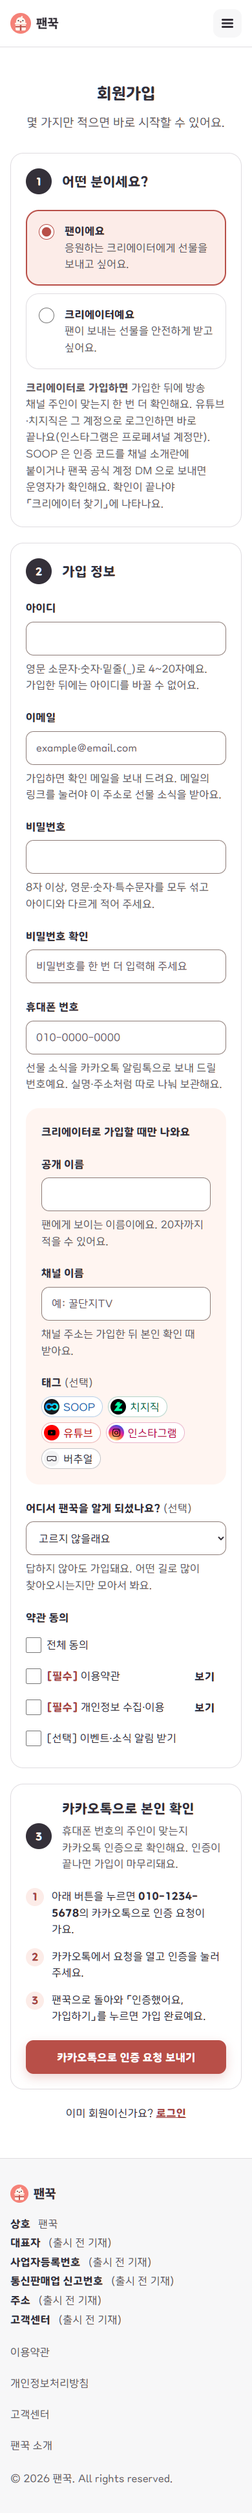
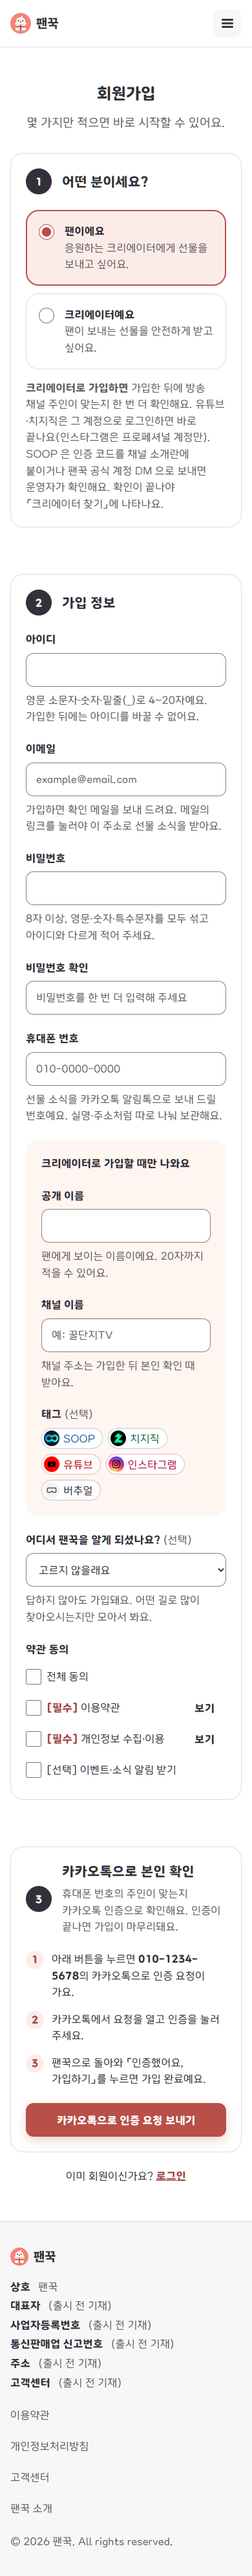
docs(fankkuk): v11 구간 사이 여백 넓힘 — 바깥 화면 큰 구간 88~144, 화면 안 구간 64(휴대폰 48, 손으로 적은 값 지움), 쌓인 판 사이 32
Claude-Session: https://claude.ai/code/session_012ZzUPkDyX6EmouyR5g4nGM

diff --git a/projects/fankkuk/docs/design/mockups/site/v11/creator-revgifts.html b/projects/fankkuk/docs/design/mockups/site/v11/creator-revgifts.html
@@ -70,13 +70,13 @@
 
         <p class="paid" role="status"><strong>결제가 끝났어요.</strong> 팬마다 상자를 따로 포장하고, 아래 팬마다 나온 받는 주소로 보내 주세요.</p>
 
-        <section class="card card--soft" aria-labelledby="priv-h" style="margin-top:24px">
+        <section class="card card--soft" aria-labelledby="priv-h">
           <img src="../v4/img/icon-address-lock.png" alt="" aria-hidden="true" width="56" height="56" style="width:56px;height:56px;object-fit:contain;margin-bottom:12px">
           <h2 class="t-card" id="priv-h">팬의 주소와 실명은 보이지 않아요</h2>
           <p style="margin-top:8px">팬이 직접 입력하고, 팬꾹만 송장을 뽑을 때 열어요.</p>
         </section>
 
-        <section aria-labelledby="b1-h" style="margin-top:48px">
+        <section aria-labelledby="b1-h">
           <h2 class="t-card" id="b1-h">10.11 16:20 보낸 역조공</h2>
           <p class="t-meta" style="margin-top:4px">팬 3명 · 받은 팬 1명 · 기다리는 중 1명 · 받지 않은 팬 1명 (받지 않은 상자 요금은 환불돼요)</p>
           <div class="card card--soft" style="margin-top:16px">
@@ -104,12 +104,12 @@
             </li></ul>
         </section>
 
-        <section class="card" aria-labelledby="find-h" style="margin-top:32px">
+        <section class="card" aria-labelledby="find-h">
           <h3 id="find-h">받는 주소 없이 보냈어요</h3>
           <p style="margin-top:8px">받는 주소 끝 6자리를 빼고 보낸 상자는 사무실에서 바로 찾지 못해요. 송장번호·택배사·보낸 사람 이름 첫 글자가 모두 맞으면 그 팬의 상자로 이어 드려요.</p>
         </section>
 
-        <section class="card" aria-labelledby="know-h" style="margin-top:24px">
+        <section class="card" aria-labelledby="know-h">
           <h2 class="t-card" id="know-h">알아 두세요</h2>
           <ul class="notes">
             <li>「받지 않았어요」는 팬이 받지 않기를 누른 경우와 7일이 지난 경우를 구분하지 않아요.</li>

diff --git a/projects/fankkuk/docs/design/mockups/site/v11/creator-requests.html b/projects/fankkuk/docs/design/mockups/site/v11/creator-requests.html
@@ -77,7 +77,7 @@
           <p class="t-body" style="margin-top:8px">승인 전까지 주소는 노출되지 않습니다. 7일 안에 정하지 않으면 자동으로 받지 않음 처리돼요.</p>
         </section>
 
-        <section aria-labelledby="wait-h" style="margin-top:40px">
+        <section aria-labelledby="wait-h">
           <h2 class="t-card" id="wait-h">승인 대기 4</h2>
           <ul class="grid cols-2">
             <li class="card card-col">
@@ -107,7 +107,7 @@
           </ul>
         </section>
 
-        <section aria-labelledby="done-h" style="margin-top:48px">
+        <section aria-labelledby="done-h">
           <h2 class="t-card" id="done-h">처리한 요청</h2>
           <ul class="grid cols-2">
             <li class="card card-col"><p><span class="tag tag--success">승인함</span></p><div><h3>소라님의 선물</h3><p class="t-meta">꽃 · 상자 1개 · FC-1A7BX</p></div><p class="t-meta">10.04 처리 · 카카오톡 서명으로 승인했어요.</p></li>

diff --git a/projects/fankkuk/docs/design/mockups/site/v11/v11.css b/projects/fankkuk/docs/design/mockups/site/v11/v11.css
@@ -592,3 +592,10 @@ fieldset.part > legend + *{clear:both}
 /* 목록 위 안내 한 줄은 구간 머리의 끝이다 — 화면 머리와 같은 48(휴대폰 32) */
 .section-hint:has(+ :is(.grid,.cards,.list)){margin-bottom:48px}
 @media(max-width:767px){.section-hint:has(+ :is(.grid,.cards,.list)){margin-bottom:32px}}
+
+/* ---------- 15. 구간 사이 여백 (2026-10-13 사용자 「섹션 간격도 조금 띄워줘, 내용이 찌부된 것 같다」) ----------
+   바깥 화면 큰 구간 위아래 88~144 · 화면 안 구간 사이 64(휴대폰 48) · 세로로 쌓인 판·카드 사이 32 */
+:root{--sec-pad:clamp(88px,10vw,144px)}
+section:not(.section) + section:not(.section){margin-top:64px}
+.stack,.block-gap{gap:32px}
+@media(max-width:767px){section:not(.section) + section:not(.section){margin-top:48px}}

diff --git a/projects/fankkuk/docs/design/mockups/site/v11/revgift-receive.html b/projects/fankkuk/docs/design/mockups/site/v11/revgift-receive.html
@@ -107,7 +107,7 @@
       </div>
 
       <p class="t-meta" style="margin-top:72px">시안 안내 · 받기를 마쳤을 때</p>
-      <section class="part part--soft" style="margin-top:12px" aria-labelledby="done-h">
+      <section class="part part--soft" aria-labelledby="done-h">
         <div class="done-head"><span class="tag tag--success"><svg width="16" height="16" aria-hidden="true" style="margin-right:6px"><use href="#check"/></svg>받기가 끝났어요</span></div>
         <h2 class="t-title" id="done-h">별빛님의 선물이 곧 준비돼요</h2>
         <p class="t-lead t-desc">주소를 다시 입력하지 않아도 돼요.</p>

diff --git a/projects/fankkuk/docs/design/mockups/site/v11/creator-revgift-new.html b/projects/fankkuk/docs/design/mockups/site/v11/creator-revgift-new.html
@@ -92,7 +92,7 @@
         <p class="t-meta" style="margin-top:16px">팔로워 목록에는 팬의 닉네임만 보여요. 팬의 주소와 연락처는 보이지 않아요.</p>
       </section>
 
-      <section aria-labelledby="flow-h" style="margin-top:56px">
+      <section aria-labelledby="flow-h">
         <h2 class="t-card" id="flow-h">이렇게 진행돼요</h2>
         <ol class="flow" style="--steps:3">
           <li><span class="n" aria-hidden="true">1</span><div><h3>팬이 「받기」를 누를 때 주소를 직접 입력해요</h3><p>크리에이터에게는 팬의 주소가 보이지 않아요.</p></div></li>

diff --git a/projects/fankkuk/docs/design/mockups/site/v11/creator-boxes.html b/projects/fankkuk/docs/design/mockups/site/v11/creator-boxes.html
@@ -71,7 +71,7 @@
           <p class="t-body" style="margin-top:8px">답장은 꼭 남기지 않아도 돼요. 이 숫자는 나만 볼 수 있어요.</p>
         </section>
 
-        <section aria-label="받은 선물 상자" style="margin-top:24px">
+        <section aria-label="받은 선물 상자">
           <ul class="grid cols-2">
             <li class="card card-col">
               <div class="who"><span class="avatar" aria-hidden="true">하</span><div><h3>하루님의 선물</h3><p class="t-meta">인형·쿠션 · 상자 2개 중 1번째</p></div></div>

diff --git a/projects/fankkuk/docs/design/mockups/site/v11/creator-log.html b/projects/fankkuk/docs/design/mockups/site/v11/creator-log.html
@@ -79,7 +79,7 @@ dd.num{margin-left:0}
           </div>
         </section>
 
-        <section aria-labelledby="rec-h" style="margin-top:48px">
+        <section aria-labelledby="rec-h">
           <h2 class="t-card" id="rec-h">열람 기록 (최근 순)</h2>
           <div class="table-wrap" tabindex="0" role="region" aria-label="주소 열람 기록 표">
             <table class="table">
